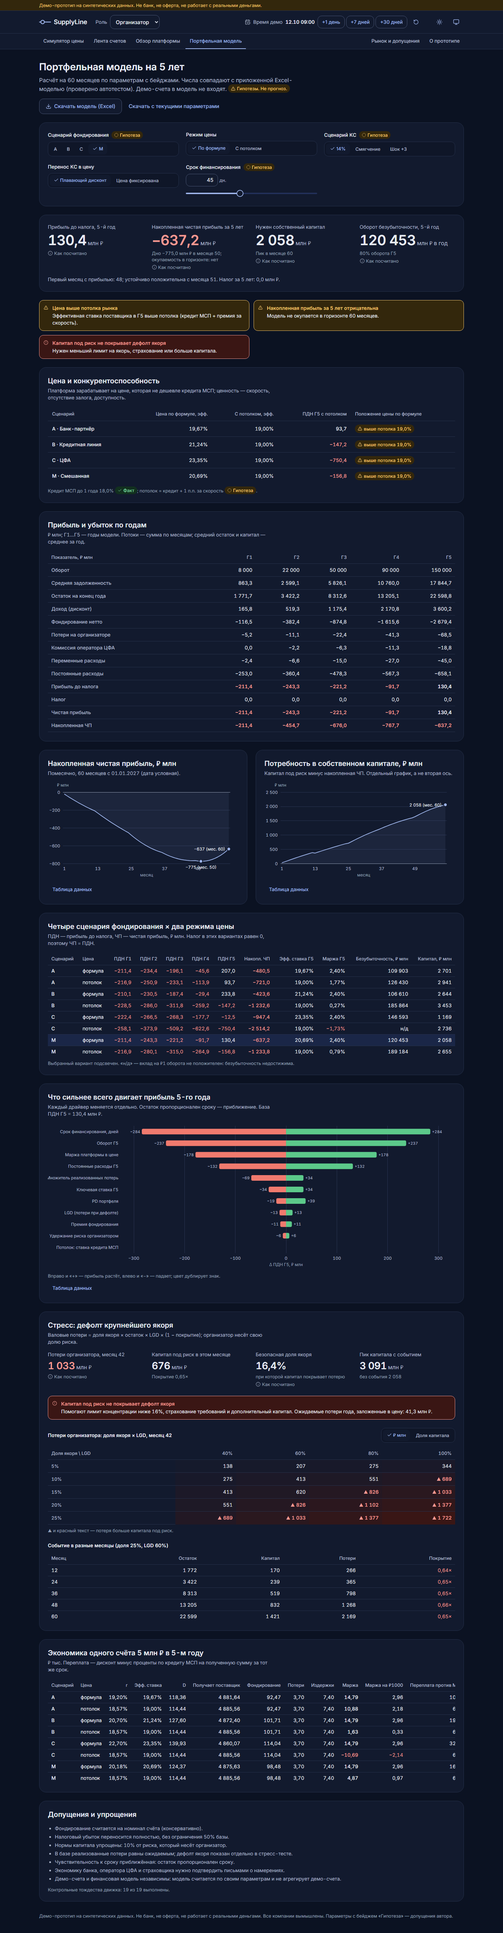
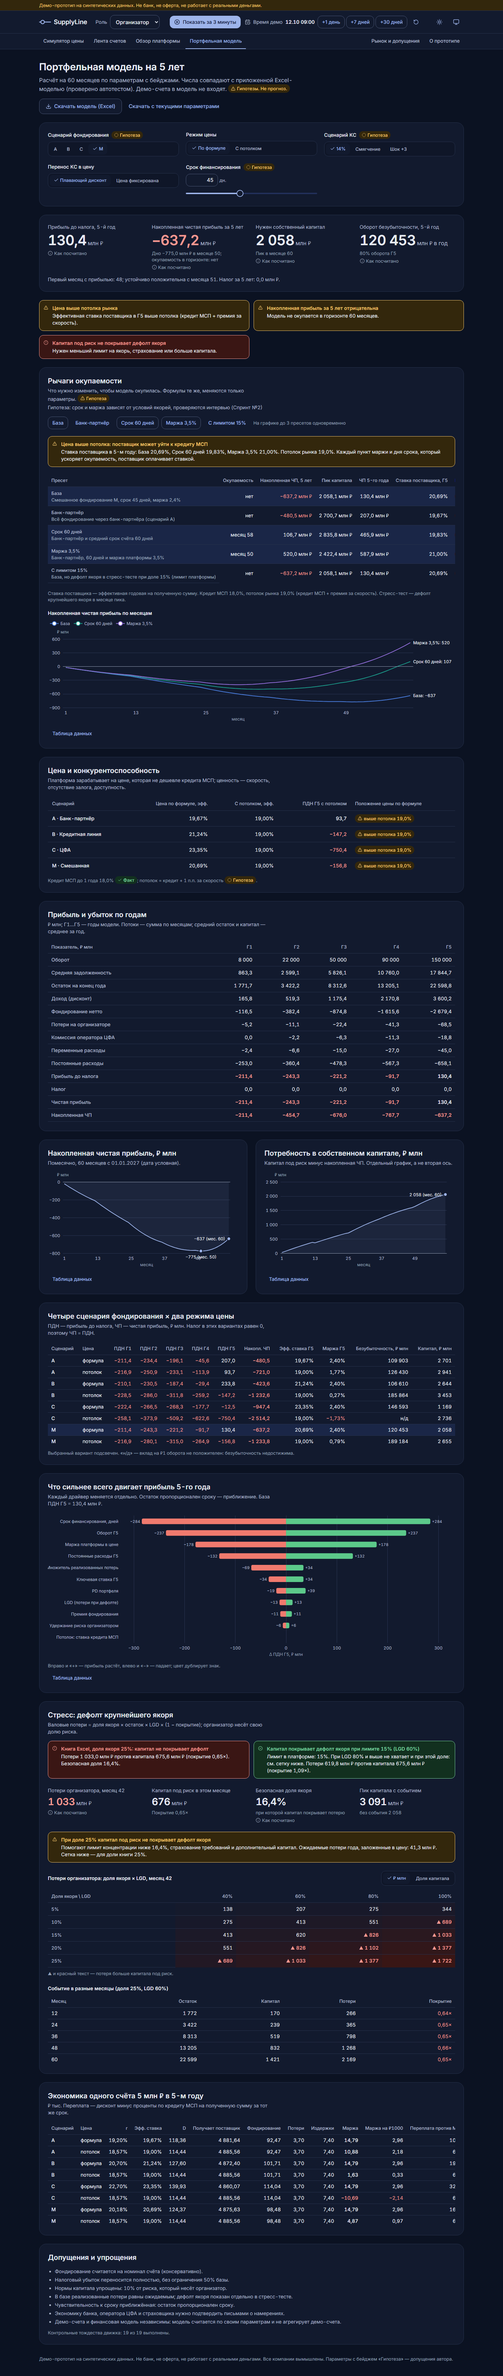
WP9: правки по независимому ревью, README, журнал скилов, критика

diff --git a/web/src/screens/Investor.tsx b/web/src/screens/Investor.tsx
@@ -57,20 +57,19 @@ export default function Investor() {
               </div>
             )}
           </Card>
-          <Card title="Концентрация по якорям" lead={`Доля непогашенных траншей. Лимит в платформе: ${pct(d.anchor_cap, 0)} на якоря.`}>
+          <Card title="Концентрация по якорям" lead={`Концентрация внутри траншей инвесторов, не лимит платформы. Лимит ${pct(d.anchor_cap, 0)} действует на портфель: см. «Обзор платформы».`}>
             <ul className="flex flex-col gap-3">
               {d.concentration.map((c) => (
                 <li key={c.anchor} className="grid items-center gap-3 md:grid-cols-[200px_1fr_120px]">
                   <span className="text-small font-medium">{c.anchor}</span>
                   <div className="h-2 rounded-full" style={{ background: "var(--primary-soft-2)" }} role="meter" aria-valuemin={0} aria-valuemax={100} aria-valuenow={Math.round(c.share * 100)} aria-label={`${c.anchor}: ${pct(c.share, 0)}`}>
-                    <div className="h-2 rounded-full" style={{ width: `${c.share * 100}%`, background: c.share > d.anchor_cap ? "var(--danger)" : "var(--primary)" }} />
-                    <div className="relative -mt-3 h-4 border-l-2" style={{ marginLeft: `${d.anchor_cap * 100}%`, borderColor: "var(--text-2)" }} title={`потолок ${pct(d.anchor_cap, 0)}`} />
+                    <div className="h-2 rounded-full" style={{ width: `${c.share * 100}%`, background: "var(--primary)" }} />
                   </div>
                   <span className="num text-right text-small">{pct(c.share, 1)} · {mln(c.amount, 0)}</span>
                 </li>
               ))}
             </ul>
-            <p className="mt-3 text-caption text-ink3">Вертикальная черта — потолок {pct(d.anchor_cap, 0)}; красная полоса правее неё — доля выше потолка. Внутри траншей концентрация может быть выше, чем в портфеле платформы.</p>
+            <p className="mt-3 text-caption text-ink3">Транш собирается из счетов нескольких якорей, поэтому доля якоря в транше выше, чем в портфеле платформы. Инвестор видит её до покупки.</p>
           </Card>
         </div>
       )}

diff --git a/web/src/screens/Model.tsx b/web/src/screens/Model.tsx
@@ -337,8 +337,8 @@ function StressBlock({ st, platform, cap }: { st: Stress; platform?: Stress; cap
             Потери {mlnM(st.loss)} против капитала {mlnM(st.capital)} (покрытие {num(st.coverage, 2)}×). Безопасная доля {pct(st.max_share, 1)}.
           </Callout>
           <Callout tone={capSafe ? "success" : "danger"}
-            title={capSafe ? `Капитал покрывает дефолт якоря при лимите ${pct(cap, 0)}` : `Лимит платформы ${pct(cap, 0)} выше безопасной доли ${pct(st.max_share, 1)}`}>
-            Лимит в платформе: {pct(cap, 0)}. Потери {mlnM(platform.loss)} против капитала {mlnM(platform.capital)} (покрытие {num(platform.coverage, 2)}×).
+            title={capSafe ? `Капитал покрывает дефолт якоря при лимите ${pct(cap, 0)} (LGD 60%)` : `Лимит платформы ${pct(cap, 0)} выше безопасной доли ${pct(st.max_share, 1)}`}>
+            Лимит в платформе: {pct(cap, 0)}. При LGD 80% и выше не хватает и при этой доле: см. сетку ниже. Потери {mlnM(platform.loss)} против капитала {mlnM(platform.capital)} (покрытие {num(platform.coverage, 2)}×).
           </Callout>
         </section>
       )}

diff --git a/web/src/screens/Feed.tsx b/web/src/screens/Feed.tsx
@@ -78,7 +78,6 @@ export default function Feed() {
         {!list.data ? <Loading rows={8} /> : list.data.items.length === 0 ? <EmptyState title={ru.feed.empty} /> : (
           <>
             <p className="mb-2 hidden text-caption text-ink3 md:block">Проверки по порядку: УПД в ЭДО, акцепт якоря, требование в реестре, лимиты. Галочка — пройдено, пунктирный круг — ещё не проверялось, красный щит — не пройдено.</p>
-            <p className="mb-2 hidden text-caption text-ink3 md:block">Проверки по порядку: УПД в ЭДО, акцепт якоря, требование в реестре, лимиты. Галочка — пройдено, пунктирный круг — ещё не проверялось, красный щит — не пройдено.</p>
             <InvoiceTable items={list.data.items} onOpen={(i) => nav(`/feed/${i}`)} />
             <div className="mt-4 flex items-center justify-between gap-3 text-small text-ink2">
               <span className="num">{page * 40 + 1}–{Math.min((page + 1) * 40, list.data.total)} из {list.data.total}</span>

diff --git a/web/src/components/Tour.tsx b/web/src/components/Tour.tsx
@@ -171,7 +171,7 @@ export function TourButton() {
           </div>
           <ol className="mb-3 flex gap-1" aria-hidden>
             {STEPS.map((_, n) => (
-              <li key={n} className="h-1 flex-1 rounded-full" style={{ background: n <= i ? "var(--primary)" : "var(--line)" }} />
+              <li key={n} className="h-1 flex-1 rounded-full" style={{ background: n <= i ? "var(--primary)" : "var(--primary-soft-2)" }} />
             ))}
           </ol>
           <RDialog.Description id="tour-text" className="text-small text-ink2">{step.text}</RDialog.Description>
@@ -195,7 +195,7 @@ export function TourButton() {
                 : <button className="btn btn-primary btn-sm" onClick={() => { setOpen(false); goto(0); }}>{ru.tour.finish}</button>}
             </span>
           </div>
-          <p className="mt-3 text-caption text-ink3">{ru.tour.keys}</p>
+          <p className="mt-3 text-caption text-ink3">{step.run ? ru.tour.keys : ru.tour.keysShort}</p>
         </RDialog.Content>
       </RDialog.Portal>
     </RDialog.Root>

diff --git a/web/src/screens/Levers.tsx b/web/src/screens/Levers.tsx
@@ -26,7 +26,7 @@ export function LeversCard() {
     setSel((cur) => (cur.includes(k) ? cur.filter((x) => x !== k) : cur.length >= MAX_LINES ? [...cur.slice(1), k] : [...cur, k]));
 
   return (
-    <Card title={ru.levers.title} lead={<>{ru.levers.lead} <Chip tone="warning">{q.data?.label ?? ru.levers.hypothesis}</Chip></>}>
+    <Card title={ru.levers.title} lead={<>{ru.levers.lead} <Chip tone="warning">Гипотеза</Chip><span className="mt-1 block">{q.data?.label ?? ru.levers.hypothesis}</span></>}>
       {q.isError && <ErrorBox text={errorText(q.error)} onRetry={() => q.refetch()} />}
       {!q.data ? <Loading rows={6} /> : <Body d={q.data} sel={sel} toggle={toggle} />}
     </Card>

diff --git a/web/src/copy/ru.ts b/web/src/copy/ru.ts
@@ -151,6 +151,7 @@ export const ru = {
     back: "Назад",
     next: "Дальше",
     finish: "Завершить",
+    keysShort: "Esc закрывает тур. «Перейти» открывает нужный экран.",
     keys: "Esc закрывает тур. «Выполнить шаг» вызывает те же действия, что кнопки на экране.",
     noBig: "Крупный счёт не найден: сбросьте демо кнопкой ↺ у часов и начните тур заново",
     noOffer: "Нет предложения, которое можно продать: сбросьте демо кнопкой ↺ у часов",

diff --git a/engine/finmodel.py b/engine/finmodel.py
@@ -809,7 +809,7 @@ def warnings(p: FinParams, res: dict) -> list[dict]:
                         detail="Модель не окупается в горизонте 60 месяцев."))
     if not res["stress"]["covered"]:
         out.append(dict(code="capital_not_covering", level="danger",
-                        text="Капитал под риск не покрывает дефолт якоря",
+                        text=f"При доле якоря {p.stress_share * 100:.0f}% капитал под риск не покрывает его дефолт",
                         detail="Нужен меньший лимит на якорь, страхование или больше капитала."))
     if any(y["margin"] < 0 for y in res["years"]):
         out.append(dict(code="negative_margin", level="danger",

diff --git a/api/routers/finmodel.py b/api/routers/finmodel.py
@@ -67,7 +67,7 @@ PRESETS: list[dict] = [
      "params": {"scenario": "A", "t_days": 60}},
     {"key": "m35", "name": "Маржа 3,5%", "note": "Банк-партнёр, 60 дней и маржа платформы 3,5%",
      "params": {"scenario": "A", "t_days": 60, "r_margin": "0.035"}},
-    {"key": "cap15", "name": "С лимитом 15%", "note": "База, но дефолт якоря в стресс-тесте при доле 15% (лимит платформы)",
+    {"key": "cap15", "name": "С лимитом 15%", "note": "База с долей якоря 15% в стресс-тесте: прибыль та же, меняется только итог стресс-теста",
      "params": {"stress_share": "0.15"}},
 ]
 

diff --git a/README.md b/README.md
@@ -1,68 +1,101 @@
 # SupplyLine — демо-прототип
 
-Кликабельный прототип платформы цифрового реверсивного факторинга. Синтетические данные, моки внешних систем,
-финансовая модель на 60 месяцев с паритетом к Excel-книге.
+Платформа цифрового реверсивного факторинга для среднего бизнеса (выручка 0,8–2 млрд ₽). Крупный покупатель («якорь») акцептует счёт поставщика, платформа покупает требование со скидкой и платит в течение суток. Цена считается по риску якоря.
 
-**Демо-прототип на синтетических данных. Не банк, не оферта, не работает с реальными деньгами.**
+**Демо-прототип на синтетических данных. Не банк, не оферта, не работает с реальными деньгами.** Учебный проект; все компании вымышлены.
 
-## Запуск
+![Симулятор цены](screenshots/01-simulator-desktop.png)
 
-Нужен Python 3.12 или новее. Если установлен `uv`, окружение создаётся через него, иначе зависимости ставятся через pip из `requirements.txt`. В архиве интерфейс уже собран (`web/dist`), поэтому Node.js нужен только для разработки интерфейса.
+## Быстрый старт
+
+Нужен Python 3.12+. Node.js 20+ нужен только для сборки интерфейса (в Docker он уже есть).
 
 ```bash
 python tasks.py demo
 ```
 
-Команда сбрасывает базу, генерирует данные (seed 42), собирает интерфейс и поднимает всё на http://127.0.0.1:8000.
+Сбрасывает базу, генерирует данные (seed 42), собирает интерфейс и поднимает http://127.0.0.1:8000. В шапке кнопка «Показать за 3 минуты» проводит по сценарию показа.
 
-Другие цели (то же самое через `make`, если он установлен):
+Через Docker, в режиме песочницы на посетителя (как публичное демо):
 
-| Команда | Что делает |
-|---|---|
-| `python tasks.py dev` | API с перезагрузкой на :8000 и Vite на :5173 |
-| `python tasks.py seed` | Сброс БД и сид |
-| `python tasks.py test` | pytest (движок, финмодель, паритет с Excel, API) и проверка типов TypeScript |
-| `python tasks.py screens` | Скриншоты всех экранов и аудит axe (нужен запущенный сервер) |
-| `python scripts/e2e_demo.py` | Сценарий показа для жюри кликами в браузере |
+```bash
+docker compose up --build
+```
 
-## Что внутри
+Развёртывание на Render, Amvera или Hugging Face Spaces: [docs/DEPLOY.md](docs/DEPLOY.md).
+
+## Что работает, а что имитация
+
+| Что | Как | Примечание |
+|---|---|---|
+| Формулы цены, лимиты, скоринг, реестр против двойного финансирования, автомат статусов | Работает | Python-движок, покрыт тестами |
+| Финансовая модель на 60 месяцев | Работает | Паритет с Excel-книгой проверяется тестом |
+| Лимит концентрации на якоря 15% | Работает | Книга Excel считает стресс при 25%, платформа ограничивает 15%: ниже безопасной доли 16,4% |
+| ЭДО, акцепт якоря, платежи, оператор ЦФА | Имитация | Задержка 0,1–0,8 с и сбои по выбору; в фазе 0 меняются только реализации портов |
+| Роли «Организатор», «Поставщик», «Якорь», «Инвестор» | Имитация | Переключатель вида, не контроль доступа |
+| Компании, счета, платежи | Синтетика | Одинаковые при каждом запуске |
+| Премии фондирования, PD, LGD, расходы, оборот | Гипотеза | Каждый параметр помечен бейджем |
+| KС, ставки МСП, налог, сроки по 381-ФЗ | Факт | С источником и датой проверки |
+| Регуляторное одобрение, реальные деньги, блокчейн, ML-скоринг | Нет | Не делается и не изображается |
+
+## Структура
 
 ```
-engine/     pricing, finmodel (паритет с Excel), scoring, registry, portfolio, funding, lifecycle, clock
-adapters/   порты ЭДО, акцепта, платежей и оператора ЦФА + моки с задержкой и отказами
-api/        FastAPI: /api/pricing, /api/finmodel, /api/invoices, роли, обзор
+engine/     цена, финмодель (паритет с Excel), скоринг, реестр, лимиты, фондирование, статусы, часы
+adapters/   порты ЭДО, акцепта, платежей и ЦФА + имитации
+api/        FastAPI; sandbox.py — песочница на посетителя (SUPPLYLINE_SANDBOX=1)
 db/         SQLite, модели SQLAlchemy, детерминированный сид
 web/        React 18 + TypeScript + Vite + Tailwind на токенах, Radix, TanStack Query, ECharts
-tests/      114 тестов + 13 тестов паритета вариантов (пропускаются без LibreOffice)
-docs/       решения, журнал скилов, аудит доступности, дизайн, соответствие Excel → движок
+tests/      pytest: движок, модель, паритет с Excel, API, песочница, книга v2; e2e — Playwright
+scripts/    смоук, e2e, видео, numbers.json, книга v2, PDF аналитики, презентация, скриншоты
+docs/       решения, факты, развёртывание, аналитика, дизайн, доступность
 ```
 
-## Экраны
+## Тесты
 
-| Роль | Экраны |
+```bash
+SUPPLYLINE_MOCK_LATENCY=0 python -m pytest -q
+```
+
+Браузерные сценарии (нужны собранный `web/dist` и `python -m playwright install chromium`):
+
+```bash
+python -m pytest -q -m e2e
+```
+
+Проверка развёрнутого демо:
+
+```bash
+python scripts/smoke.py https://<адрес> --wait 120
+```
+
+CI (`.github/workflows/ci.yml`): ruff, pytest с LibreOffice (13 вариантов паритета с книгой), typecheck, сборка интерфейса, e2e, сборка Docker-образа и смоук.
+
+## Материалы Спринта №1
+
+Все числа берутся из одного файла `deliverables/numbers.json`:
+
+```bash
+python scripts/export_numbers.py
+```
+
+| Материал | Команда |
 |---|---|
-| Организатор | Симулятор цены · Лента счетов · Обзор платформы · Портфельная модель |
-| Поставщик | Мои счета и лимиты · Лента счетов · Симулятор цены |
-| Якорь | Акцепты и платежи · Лента счетов |
-| Инвестор | Портфель траншей · Портфельная модель |
-| Общие | Рынок и допущения · О прототипе |
+| Видео-демо 2–3 минуты (сервер запущен) | `python scripts/record_demo.py http://127.0.0.1:8000` |
+| Презентация PPTX и PDF | `python scripts/build_deck.py --pdf` |
+| Пакет аналитики (PDF + Excel v2) | `python scripts/export_analytics.py` |
+| Скриншоты и аудит axe | `python tasks.py screens` |
 
-Виртуальные часы (+1, +7, +30 дней) в шапке двигают время: счета дозревают, оплачиваются, уходят в просрочку и регресс.
-
-## Сценарий показа (3 минуты)
-
-1. **Симулятор.** Эффективная ставка 19,67% при ключевой 14% и банке-партнёре. Это дороже кредита МСП (18,0%), и экран так и пишет.
-2. **Лента счетов → «SL-2026-КРУПНЫЙ» → «Продать счёт».** Блокировка правилом «Концентрация на одного якоря: не больше 25%».
-3. **Любое предложение → «Продать счёт» → «Попытаться продать повторно».** Реестр возвращает 409: двойное финансирование невозможно.
-4. **+1 день → «Смоделировать просрочку якоря» → +30 дней.** Просрочка переходит в регресс к поставщику.
-5. **Портфельная модель → стресс.** Дефолт якоря с долей 25% даёт потери 1 033 млн ₽ против капитала 676 млн ₽.
-6. **Обзор платформы → ворота фазы 0.**
+Текст для озвучки видео: [docs/VIDEO_SCRIPT.md](docs/VIDEO_SCRIPT.md). Аналитика в Markdown: [docs/analytics/](docs/analytics/).
 
 ## Честность цифр
 
-- Все компании вымышлены. Реальных ритейлеров, банков, ИНН и логотипов нет.
-- Каждый параметр помечен «Факт» (с источником) или «Гипотеза».
-- Числа финмодели считает только `engine/finmodel.py`; паритет с книгой проверяет `tests/test_excel_parity.py`.
-- Демо-счета и финмодель независимы: модель не агрегирует демо-счета.
+- Каждый параметр помечен «Факт» (с источником и датой) или «Гипотеза».
+- Факт без открытого первоисточника не выводится на экран: [docs/FACTS_TODO.md](docs/FACTS_TODO.md).
+- Числа модели считает только `engine/finmodel.py`; демо-счета и модель независимы.
 
-Подробности: [docs/DECISIONS.md](docs/DECISIONS.md), [docs/model/MAPPING.md](docs/model/MAPPING.md), [docs/a11y-report.md](docs/a11y-report.md).
+Решения: [docs/DECISIONS.md](docs/DECISIONS.md) · блокеры: [docs/BLOCKERS.md](docs/BLOCKERS.md) · соответствие Excel → движок: [docs/model/MAPPING.md](docs/model/MAPPING.md) · доступность: [docs/a11y-report.md](docs/a11y-report.md).
+
+## Лицензия
+
+Учебный проект для конкурса. Код можно читать и запускать; использование в коммерческих целях — по согласованию с командой.

diff --git a/docs/SKILLS_LOG.md b/docs/SKILLS_LOG.md
@@ -33,3 +33,20 @@ playwright, testing, finance → только `stop-slop`.
 | Субагент-ревьюер (`Agent`, general-purpose) | Этап 6, видел только `review/` (скриншоты + tokens.md) | 21 замечание, 6 высокой серьёзности; все высокие исправлены, сводка в `critique.md` |
 | `design:design-handoff` | Этап 7, в конце | `docs/design/handoff.md`: раскладка и брейкпоинты, таблица токенов для обеих тем, 19 компонентов со свойствами и состояниями, 14 краевых случаев, движение, доступность |
 | `anthropic-skills:stop-slop` | Этап 7, README, `docs/`, `ru.ts` | Проверены вводные клише, наречия-усилители, противопоставления «не X, а Y», лозунги. Исправлены 4 места (лозунг в critique, «легко найти», «а не цена» в симуляторе, «Цифра — это ответ»). Тире в русских определениях оставлены: это норма пунктуации, а не стилистический приём |
+
+## Спринт №1 (02.11.2026)
+
+Скилы из ТЗ в этой сессии не вызывались отдельными вызовами; шаги выполнены по колонке «Если скилла нет» ТЗ. Записываю, чем заменён каждый.
+
+| Скил по ТЗ | Шаг | Чем заменён и что изменилось |
+|---|---|---|
+| `frontend-design`, `design:design-system` | WP3, WP4, WP6 | Новые компоненты (`Levers.tsx`, `Tour.tsx`) собраны из `ui.tsx` и токенов `tokens.css`; новых цветов нет, кроме слотов `--chart-1…5` для линий пресетов |
+| `dataviz` | WP4 | График пресетов по `docs/design/dataviz.md`: цвет закреплён за пресетом, прямые подписи на концах, опорная линия 0, «Таблица данных» |
+| `design:ux-copy`, `stop-slop` | WP2–WP9 | Все строки через `ru.ts`; ошибки тура «что + что сделать»; README, аналитика и слайды без лозунгов и усилителей |
+| `design:accessibility-review` | WP3, WP4, WP6, WP9 | `scripts/screenshots.py` (axe-core): 0 нарушений на 9 экранах; тур открывается с клавиатуры, Esc закрывает, панель доступна при открытой карточке (тест `test_tour_keyboard`) |
+| `design:design-critique` | WP9 | Субагент-ревьюер по `review/`: 15 замечаний, итог в `docs/design/critique.md` |
+| `anthropic-skills:xlsx` | WP8 | `openpyxl` (`scripts/build_model_v2.py`); пересчёт LibreOffice — в CI |
+| `anthropic-skills:pptx` | WP7 | `python-pptx` с нуля (`scripts/build_deck.py`), PDF через PowerPoint |
+| `anthropic-skills:pdf` | WP7, WP8 | Chromium (Playwright) для PDF аналитики, `pdftotext` для проверки кириллицы |
+| `built-in-browser` | WP5, WP9 | Встроенный браузер: экраны модели и тура; Playwright — e2e и смоук |
+| Субагент-проверяющий чисел | WP8 | Около 300 чисел аналитики сверены с `numbers.json`: 1 расхождение (18 → 19 проверок), исправлено в тексте |

diff --git a/docs/design/critique.md b/docs/design/critique.md
@@ -54,3 +54,21 @@
 - Бейджи «Факт / Гипотеза» с источником в подсказке у каждого параметра.
 - «Линия с узлами» — единственный декоративный мотив, и он несёт смысл: путь счёта, дорожная карта.
 - Под каждым графиком есть таблица данных.
+
+## Спринт №1: независимый ревью (02.11.2026)
+
+Субагент-ревьюер видел только `review/` (скриншоты 9 экранов в двух ширинах, тур) и `tokens.md`. 15 замечаний.
+
+Исправлено:
+- **Высокое.** «Рычаги окупаемости» на 390 px: длинный бейдж гипотезы не переносился и раздувал страницу. Бейдж стал коротким, пояснение вынесено отдельной строкой.
+- **Высокое.** Стресс-тест противоречил сам себе: красная плашка сверху без доли, зелёная про лимит 15% без LGD. Плашка модели теперь называет долю («При доле якоря 25%…»), зелёная — LGD 60% и оговорку, что при LGD 80%+ не хватает и при 15%.
+- **Высокое.** «Инвестор»: концентрация внутри траншей выглядела нарушением лимита 15%. Блок подписан «не лимит платформы», красная заливка и отметка лимита убраны.
+- **Среднее.** Тур: дорожка шагов не читалась как «2 из 8» (незаполненные сегменты цветом линии) — теперь `--primary-soft-2`; подсказка про «Выполнить шаг» показывается только на шагах с этой кнопкой.
+- **Среднее.** Пресет «С лимитом 15%» повторял числа базы без объяснения — в подписи сказано, что меняется только стресс-тест.
+- **Среднее.** «Лента счетов»: легенда проверок выводилась дважды.
+
+Оставлено (было до спринта, вне его задач; перенесено в Спринт №2):
+- Торнадо на 390 px нечитаем; последняя колонка «Экономики одного счёта» обрезается при 1440 px (есть горизонтальная прокрутка); подпись «Множитель реализованных потерь» обрезается.
+- На телефоне таблицы прокручиваются вбок без визуальной подсказки; в `tokens.md` для телефона описаны карточки (сделано только в ленте).
+- Панель тура на десктопе перекрывает правую колонку карточки счёта. Альтернатива — сдвигать карточку; оставлено: панель можно закрыть Esc, данные карточки видны после «Дальше».
+- Бейдж «Факт и гипотеза» на карточке инвестора, высота шапки на телефоне, подписи графика концентрации, пустая карточка структуры фондирования.
